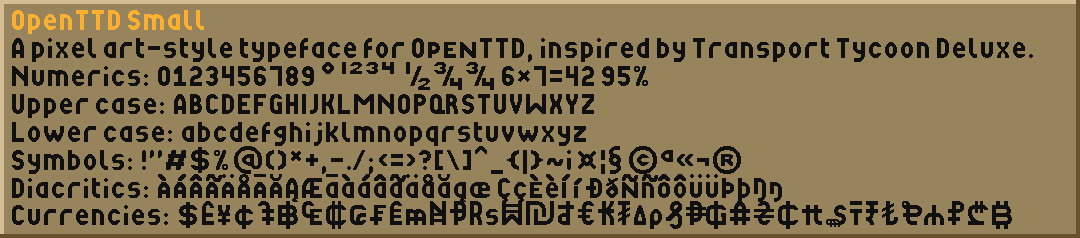
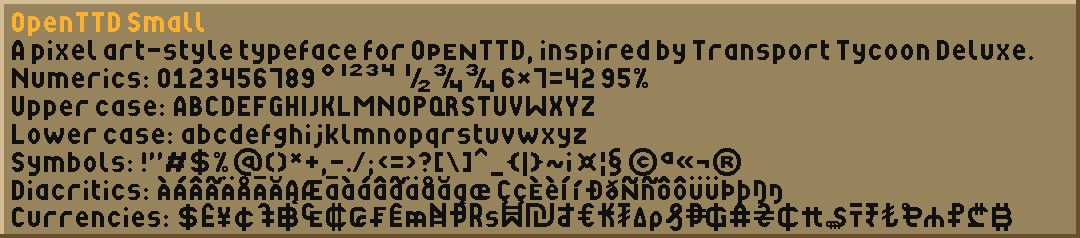
Fix: OpenTTD Small metrics
Set correct capital and x heights, set OS/2 ascent offsets to 0

Changed region(s): [[0.0, 0.1471, 0.9472, 0.9706], [0.0, 0.0294, 0.1833, 0.1471]]

diff --git a/readme.md b/readme.md
@@ -38,8 +38,7 @@ Designed for use at 6 pixel height.
 
 ![OpenTTD Small preview, 24px anti-aliased](openttd-small/OpenTTD-Small-24px-anti-aliased.png)
 
-Full coverage of: `Basic Latin`, `Latin-1 Supplement`, `Latin Extended-A`.
-_TODO: `Currency Symbols`_
+Full coverage of: `Basic Latin`, `Latin-1 Supplement`, `Latin Extended-A`, `Currency Symbols`.
 
 ## Using in OpenTTD
 1. Download the typeface (font) TTF files. For each link, download the TTF file by clicking on "View raw": [OpenTTD-Sans.ttf](openttd-sans/OpenTTD-Sans.ttf), [OpenTTD-Serif.ttf](openttd-serif/OpenTTD-Serif.ttf) and [OpenTTD-Small.ttf](openttd-small/OpenTTD-Small.ttf).

diff --git a/openttd-small/readme.md b/openttd-small/readme.md
@@ -10,7 +10,7 @@ Full coverage:
 * Basic Latin (`U+0000..U+007F`)
 * Latin-1 Supplement (`U+0080..U+00FF`)
 * Latin Extended-A (`U+0100..U+017F`)
-* [TODO: Currency Symbols (`U+20A0..U+20CF`)]
+* Currency Symbols (`U+20A0..U+20CF`)
 
 Partial coverage:
 * IPA Extensions (`U+0250–U+02AF`)
